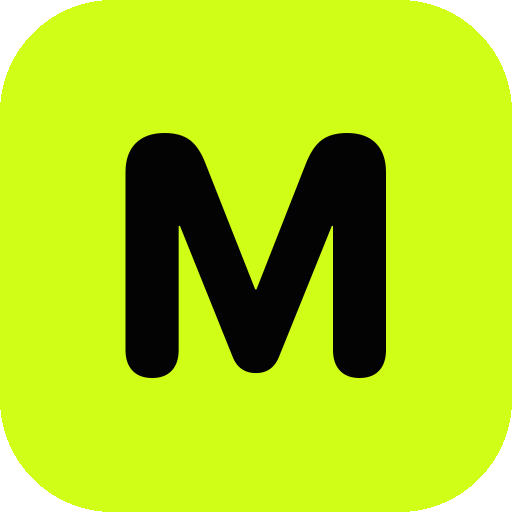
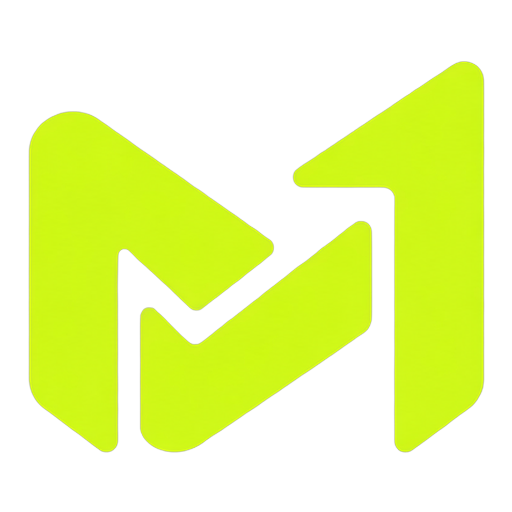
Use app brand mark throughout website

diff --git a/web/src/components/shell/TopBar.tsx b/web/src/components/shell/TopBar.tsx
@@ -1,6 +1,6 @@
 "use client";
 
-import { Bell, Plus, Search, Sparkles } from "lucide-react";
+import { Bell, Plus, Search } from "lucide-react";
 import Link from "next/link";
 import { usePathname, useRouter } from "next/navigation";
 import { useState } from "react";
@@ -21,8 +21,8 @@ export function TopBar() {
 
   return (
     <header className="sticky top-0 z-30 h-14 bg-bg/85 backdrop-blur-md border-b border-border flex items-center gap-3 px-4 md:px-6">
-      <Link href="/home" className="md:hidden size-7 rounded-md bg-gradient-to-br from-highlight via-accent to-green flex items-center justify-center shrink-0">
-        <Sparkles className="size-4 text-on-accent" />
+      <Link href="/home" aria-label="Accueil Marketing Studio" className="md:hidden size-7 shrink-0">
+        <img src="/brand-mark.png" alt="" aria-hidden="true" className="size-full rounded-md" />
       </Link>
       <h1 className="text-[15px] md:text-base font-semibold tracking-tight truncate min-w-0 flex-1 md:flex-none md:max-w-[12rem] lg:max-w-xs">{title ?? titleForPath(path)}</h1>
 

diff --git a/web/src/app/onboarding/page.tsx b/web/src/app/onboarding/page.tsx
@@ -1,7 +1,7 @@
 "use client";
 
 import { AnimatePresence, motion, useReducedMotion } from "framer-motion";
-import { ArrowLeft, Sparkles } from "lucide-react";
+import { ArrowLeft } from "lucide-react";
 import { useRouter } from "next/navigation";
 import { useCallback, useEffect, useState } from "react";
 import { StepDots } from "@/components/ui/ProgressIndicator";
@@ -141,9 +141,7 @@ export default function OnboardingPage() {
           )}
         </div>
         <div className="flex items-center gap-2">
-          <span className="size-7 rounded-md bg-gradient-to-br from-highlight via-accent to-green flex items-center justify-center shadow-glow">
-            <Sparkles className="size-4 text-on-accent" />
-          </span>
+          <img src="/brand-mark.png" alt="" aria-hidden="true" className="size-7 rounded-md" />
           <span className="text-[15px] font-semibold tracking-tight">Marketing Studio</span>
         </div>
         <div className="w-20 flex justify-end">

diff --git a/web/src/components/shell/Sidebar.tsx b/web/src/components/shell/Sidebar.tsx
@@ -30,9 +30,7 @@ export function Sidebar() {
     >
       {/* Logo */}
       <Link href="/home" className={cn("flex items-center h-14 border-b border-border shrink-0", collapsed ? "justify-center" : "px-4 gap-2.5")}>
-        <span className="size-7 rounded-md bg-gradient-to-br from-highlight via-accent to-green flex items-center justify-center shadow-glow">
-          <Sparkles className="size-4 text-on-accent" />
-        </span>
+        <img src="/brand-mark.png" alt="" aria-hidden="true" className="size-7 shrink-0 rounded-md" />
         {!collapsed && <span className="text-[15px] font-semibold tracking-tight">Marketing Studio</span>}
       </Link>
 

diff --git a/web/src/app/(auth)/layout.tsx b/web/src/app/(auth)/layout.tsx
@@ -6,7 +6,7 @@ export default function AuthLayout({ children }: { children: ReactNode }) {
     <div lang="fr" className="min-h-dvh bg-bg text-text flex flex-col">
       <header className="px-4 sm:px-6 py-5">
         <Link href="/" className="inline-flex items-center gap-2 font-semibold tracking-tight text-[17px]">
-          <span className="size-8 rounded-lg bg-gradient-to-br from-highlight via-accent to-green" aria-hidden />
+          <img src="/brand-mark.png" alt="" aria-hidden="true" className="size-8 rounded-lg" />
           Marketing Studio
         </Link>
       </header>
